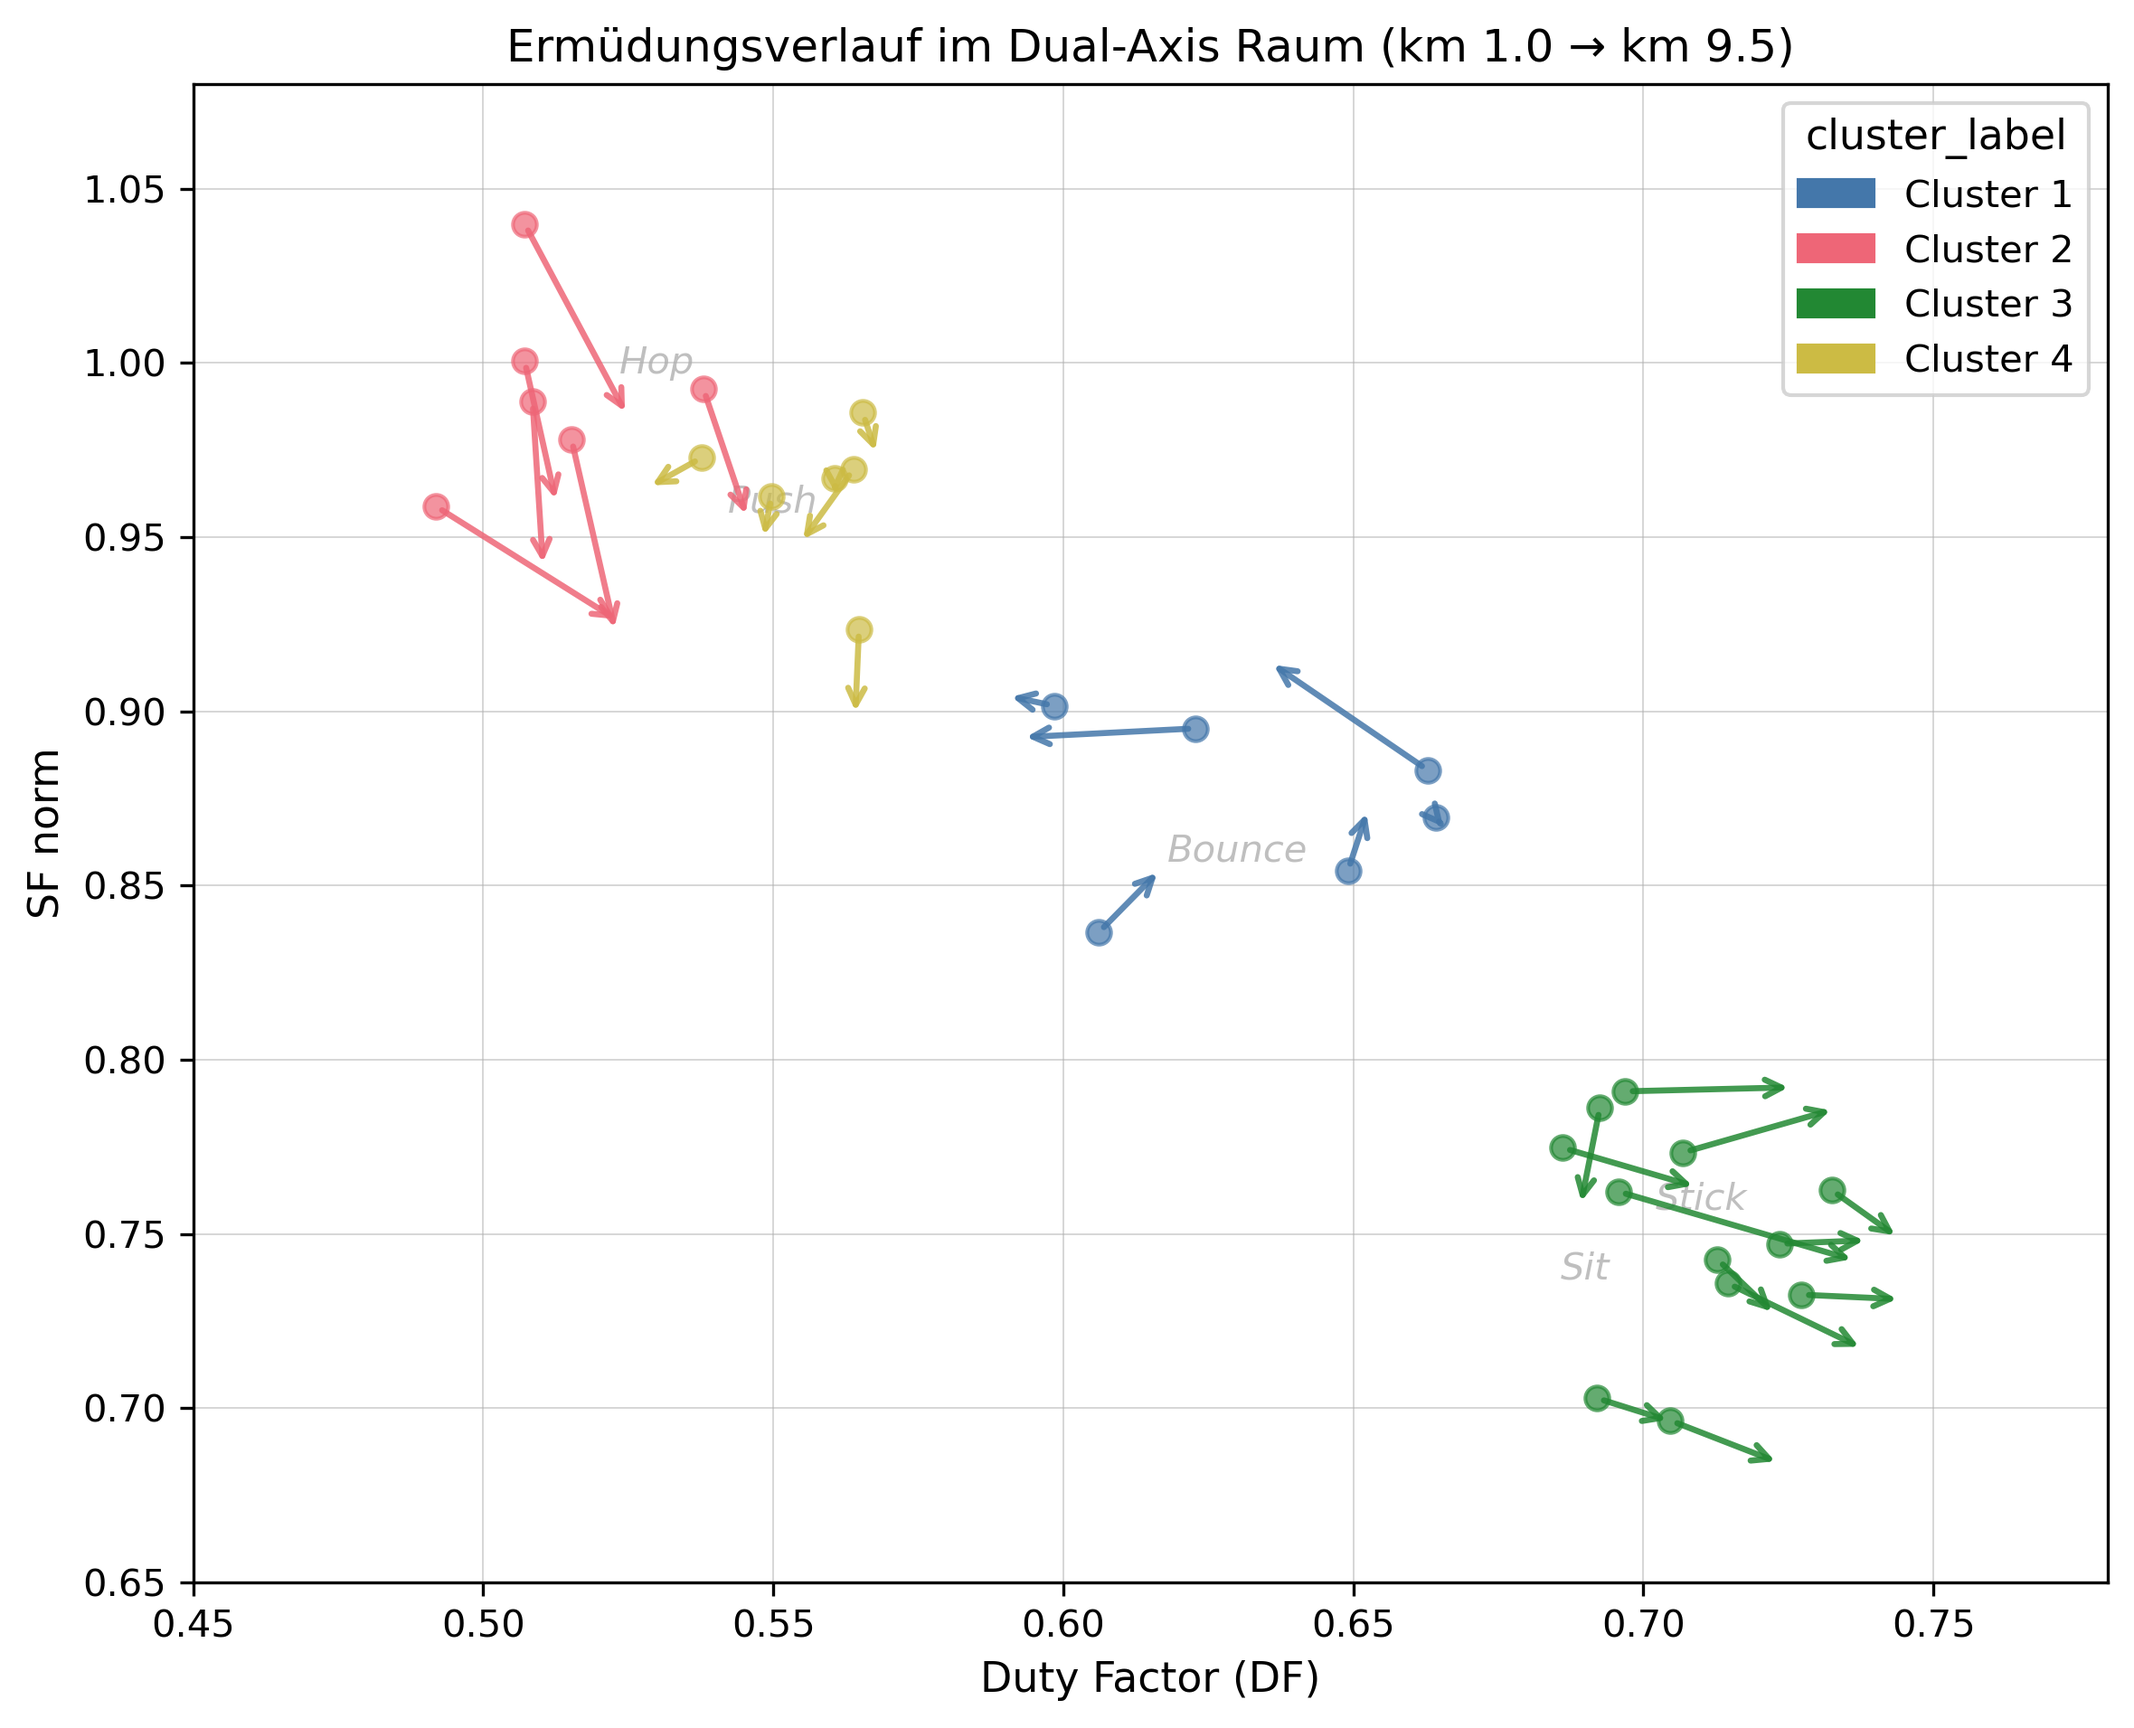
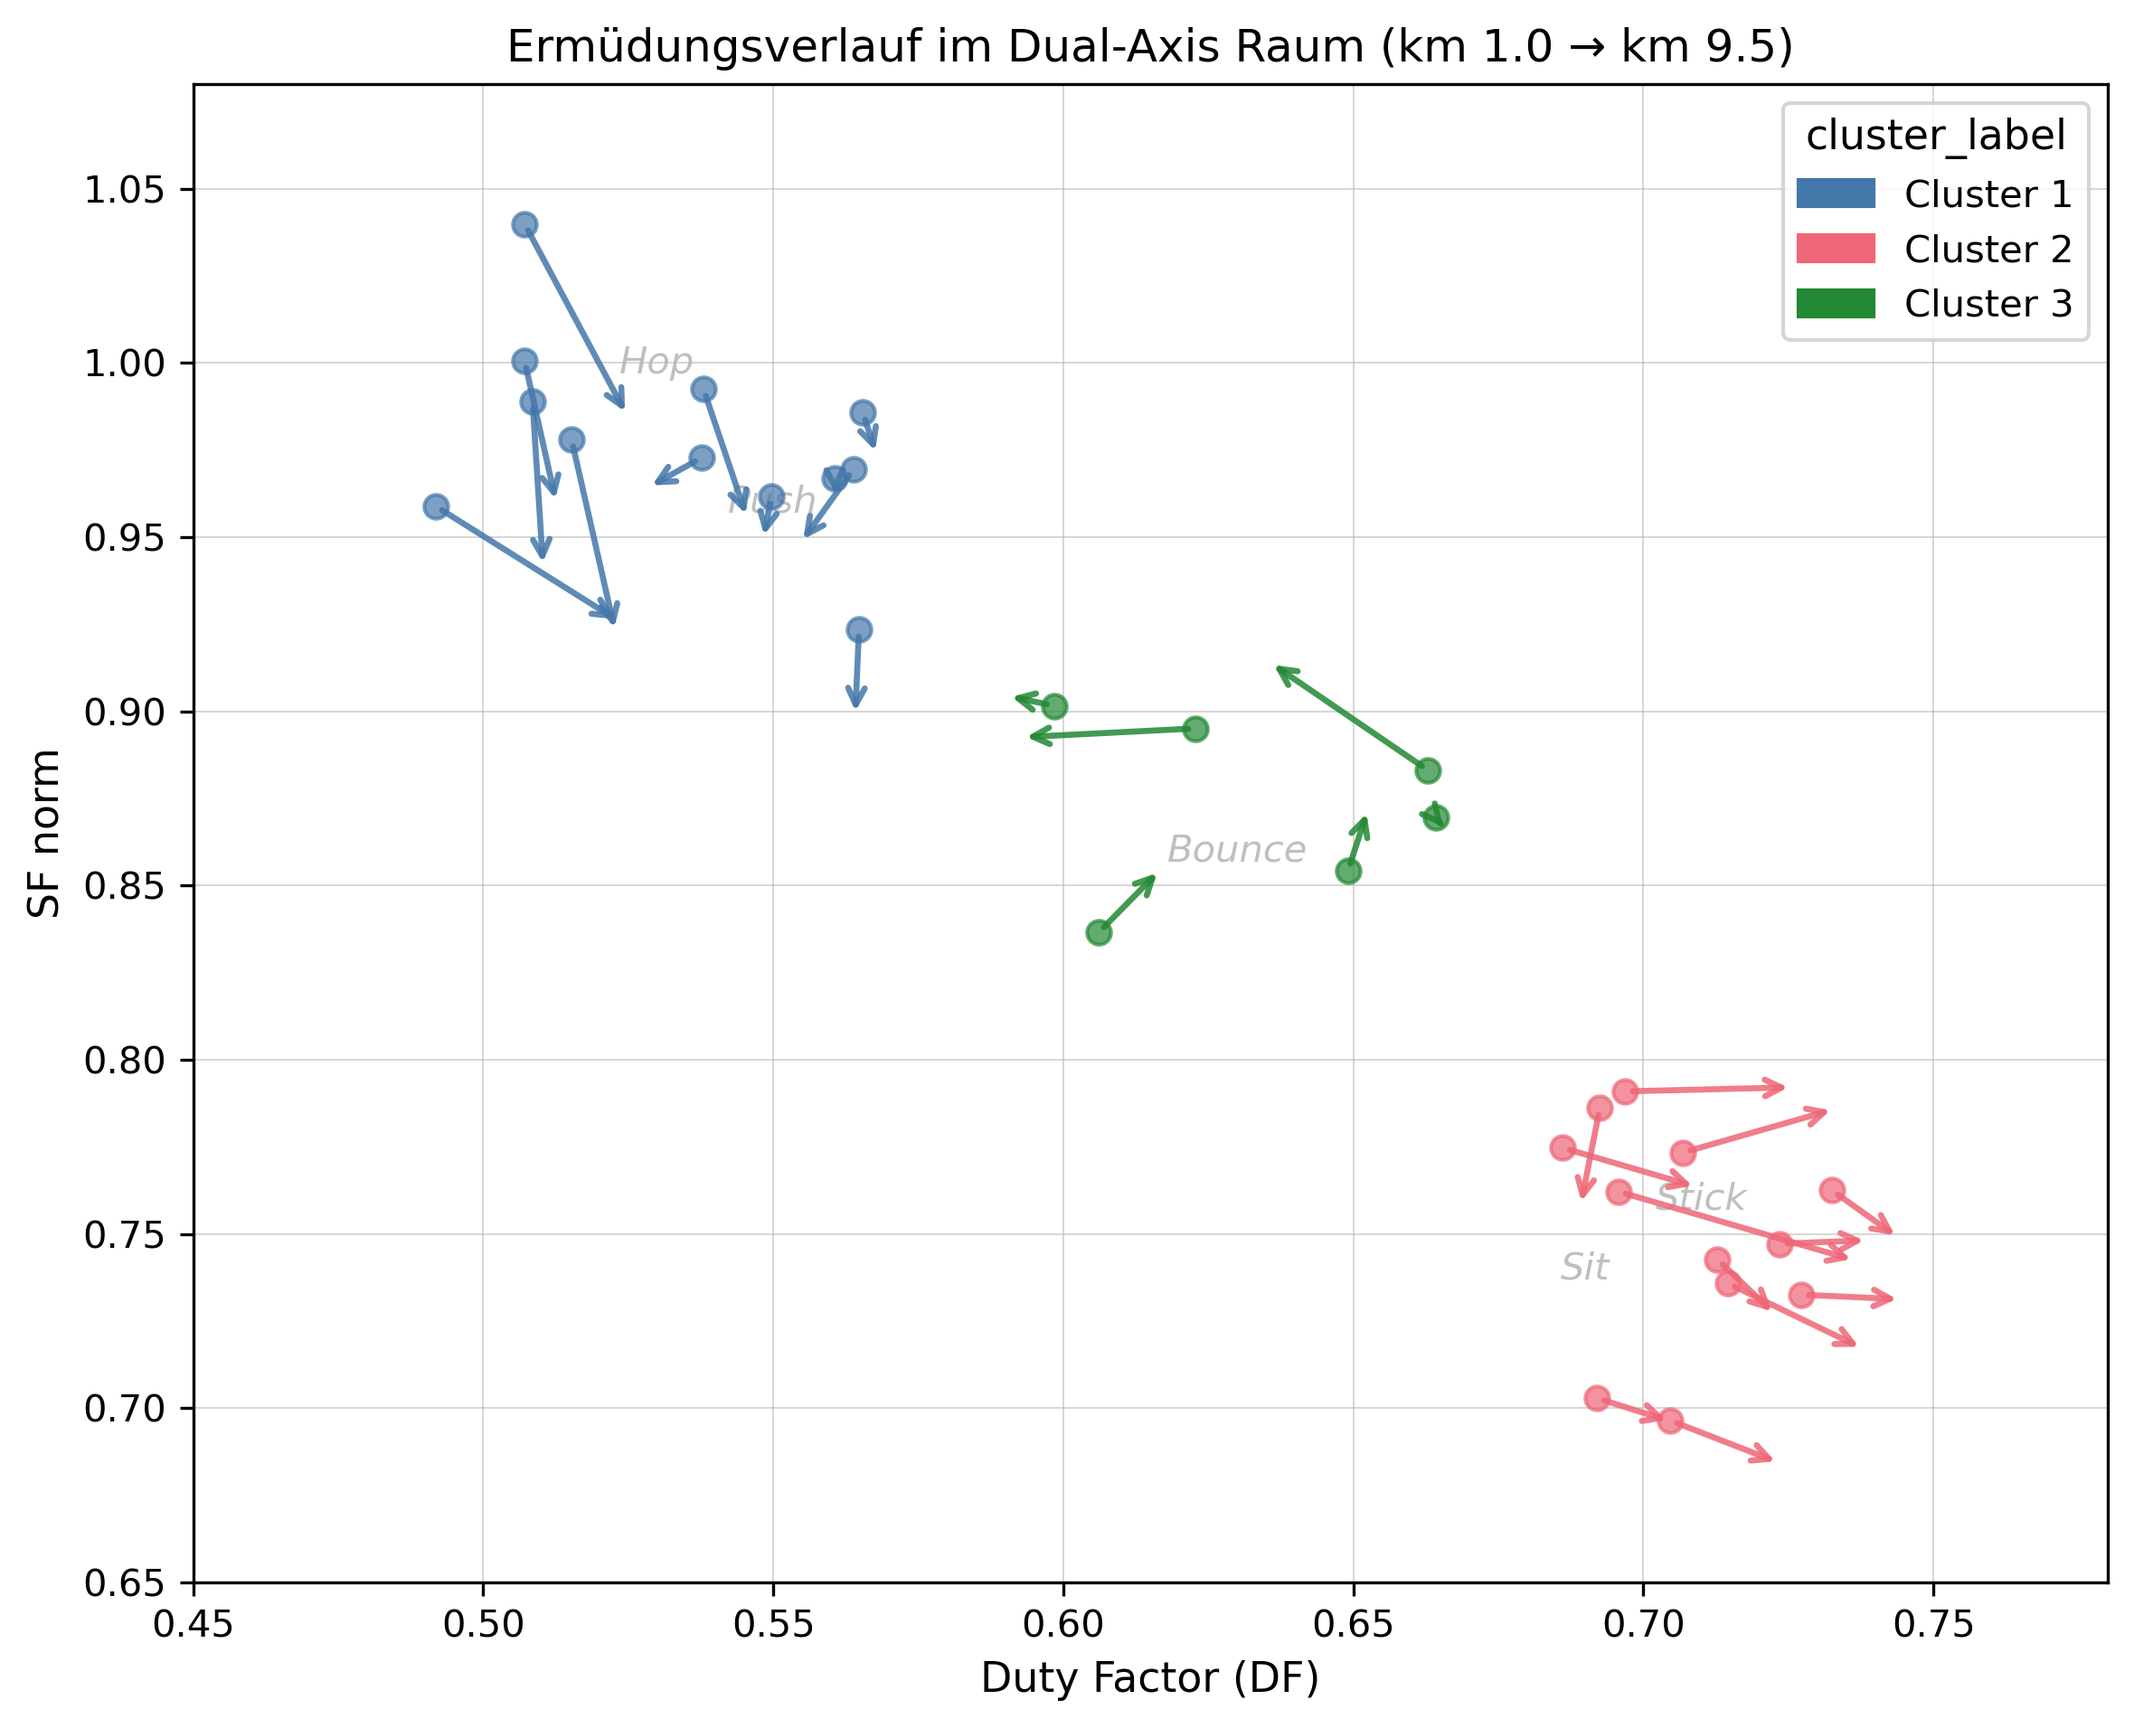
feat: add dendrogram plot for hierarchical clustering with cut line

diff --git a/Bachelor-Arbeit-Cluster-Analyse/src/extension/viz_plots.py b/Bachelor-Arbeit-Cluster-Analyse/src/extension/viz_plots.py
@@ -564,6 +564,102 @@ def elbow_plot(
     print(f"  Elbow-Plot gespeichert -> {out}")
 
 
+# ── Plot 6 ────────────────────────────────────────────────────────────────────
+
+def dendrogram_plot(
+    df_features_z: pd.DataFrame,
+    selection: dict,
+    cfg,
+) -> None:
+    """
+    Plot 6: Dendrogramm des hierarchischen Clusterings.
+
+    Nur sinnvoll bei hierarchischem Clustering. Zeigt die Merge-Hierarchie
+    mit einer horizontalen gestrichelten Linie beim Schnitt fuer k Cluster.
+
+    Parameters
+    ----------
+    df_features_z : Z-transformierte Feature-Tabelle mit Spalte 'Subject'
+    selection     : dict mit 'linkage' und 'k'
+    cfg           : config-Modul (benoetigt OUTPUT_PLOTS_DIR, RANDOM_STATE)
+    """
+    from scipy.cluster.hierarchy import linkage, dendrogram
+
+    linkage_method = selection["linkage"]
+    k              = selection["k"]
+
+    X        = df_features_z.drop(columns=["Subject"]).to_numpy(dtype=float)
+    subjects = df_features_z["Subject"].tolist()
+    n        = len(subjects)
+
+    Z = linkage(X, method=linkage_method)
+
+    # Schnittlinie: Mitte zwischen dem Merge der k→k-1 Reduktion
+    # und dem letzten Merge innerhalb der k Cluster.
+    # Z ist (n-1, 4); Zeile n-k ist der Merge von k+1 auf k Cluster,
+    # Zeile n-k-1 ist der letzte Merge innerhalb der k Cluster.
+    cut_upper = float(Z[n - k,     2])
+    cut_lower = float(Z[n - k - 1, 2]) if k < n - 1 else 0.0
+    cut_y     = (cut_upper + cut_lower) / 2.0
+
+    # Graustufen fuer k Cluster: gleichmaessig von #000000 bis #AAAAAA
+    if k > 1:
+        step = 0xAA / (k - 1)
+        _grey_colors = [
+            f"#{int(round(i * step)):02X}{int(round(i * step)):02X}{int(round(i * step)):02X}"
+            for i in range(k)
+        ]
+    else:
+        _grey_colors = ["#000000"]
+
+    fig, ax = plt.subplots(figsize=(10, 5))
+    ax.set_title(
+        f"Dendrogramm \u2013 Hierarchisches Clustering"
+        f" (Linkage: {linkage_method}, k={k})"
+    )
+
+    # Dendrogramm mit Standard-Einfärbung zeichnen (gibt k unterschiedliche Farben)
+    dendrogram(
+        Z,
+        labels=subjects,
+        ax=ax,
+        color_threshold=cut_y,
+        above_threshold_color="#DDDDDD",
+    )
+
+    # scipy-Farben unterhalb der Schnittlinie inventarisieren und
+    # durch Graustufen ersetzen; Äste oberhalb bleiben #DDDDDD
+    scipy_colors = []
+    for line in ax.get_lines():
+        c = line.get_color()
+        if c != "#DDDDDD" and c not in scipy_colors:
+            scipy_colors.append(c)
+
+    color_remap = {sc: _grey_colors[i % len(_grey_colors)]
+                   for i, sc in enumerate(scipy_colors)}
+    color_remap["#DDDDDD"] = "#DDDDDD"
+
+    for line in ax.get_lines():
+        c = line.get_color()
+        line.set_color(color_remap.get(c, c))
+
+    ax.axhline(cut_y, linestyle="--", color="black", linewidth=1.2,
+               label=f"Schnitt bei k={k}  (d = {cut_y:.2f})")
+    ax.set_ylabel("Distanz")
+    ax.tick_params(axis="x", labelsize=9, rotation=45)
+    plt.setp(ax.get_xticklabels(), ha="right")
+    ax.legend(frameon=True, fontsize=9)
+    ax.grid(False)
+
+    fig.tight_layout()
+
+    cfg.OUTPUT_PLOTS_DIR.mkdir(parents=True, exist_ok=True)
+    out = cfg.OUTPUT_PLOTS_DIR / "dendrogram.png"
+    fig.savefig(out, dpi=DPI, bbox_inches="tight")
+    plt.close(fig)
+    print(f"  Dendrogramm gespeichert -> {out}")
+
+
 # ── Alle Plots auf einmal ─────────────────────────────────────────────────────
 
 def create_all_plots(
@@ -571,16 +667,21 @@ def create_all_plots(
     labels: "pd.Series",
     df_results: pd.DataFrame,
     cfg,
+    selection: dict,
+    df_features_z: pd.DataFrame,
 ) -> None:
     """
-    Erzeugt alle vier Dual-Axis Plots mit den finalen Cluster-Labels.
+    Erzeugt alle Dual-Axis Plots mit den finalen Cluster-Labels.
+    Bei hierarchischem Clustering zusaetzlich das Dendrogramm.
 
     Parameters
     ----------
-    df         : langer Datensatz (Subject x km) ohne cluster_label
-    labels     : pd.Series mit Index=Subject, Values=Cluster-Label
-    df_results : Ausgabe von evaluate_clustering_methods() + add_best_flag()
-    cfg        : config-Modul (benoetigt OUTPUT_PLOTS_DIR)
+    df            : langer Datensatz (Subject x km) ohne cluster_label
+    labels        : pd.Series mit Index=Subject, Values=Cluster-Label
+    df_results    : Ausgabe von evaluate_clustering_methods() + add_best_flag()
+    cfg           : config-Modul (benoetigt OUTPUT_PLOTS_DIR)
+    selection     : dict mit 'method', optional 'linkage', 'k'
+    df_features_z : Z-transformierte Feature-Tabelle (fuer Dendrogramm)
     """
     print("\n=== Schritt 5b: Plots erstellen ===")
 
@@ -601,6 +702,12 @@ def create_all_plots(
 
     print("  Plot 4: metrics_table ...")
     metrics_table(df_results, out_dir=cfg.OUTPUT_PLOTS_DIR)
+
+    if selection["method"] == "hierarchical":
+        print("  Plot 6: dendrogram_plot ...")
+        dendrogram_plot(df_features_z, selection, cfg)
+    else:
+        print("  Dendrogramm: uebersprungen (nur bei hierarchischem Clustering)")
 
     plt.close("all")
     print(f"  Plots gespeichert -> {cfg.OUTPUT_PLOTS_DIR}")

diff --git a/main.py b/main.py
@@ -152,7 +152,7 @@ def main() -> None:
     labels = step5_run_final_clustering(df_features_z, selection)
 
     # Schritt 5b: Plots erstellen
-    create_all_plots(df, labels, df_results, config)
+    create_all_plots(df, labels, df_results, config, selection, df_features_z)
 
     # Schritt 6: Speichern
     step6_save_results(df_features_raw, df_results, labels)

diff --git a/CLAUDE.md b/CLAUDE.md
@@ -6,6 +6,7 @@ This file provides guidance to Claude Code (claude.ai/code) when working with co
 - Erstelle immer zuerst einen Plan und warte auf meine Bestätigung bevor du etwas änderst
 - Arbeite in kleinen Schritten – eine Funktion nach der anderen
 - Frage nach wenn etwas unklar ist, statt Annahmen zu treffen
+- Zeige mir immer was du ändern möchtest und warte auf meine Bestätigung
 
 
 ## Project Overview
